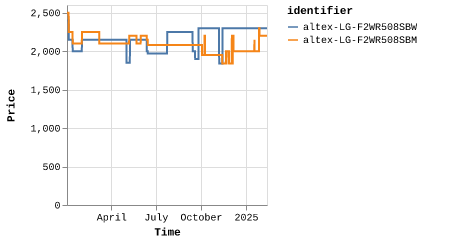
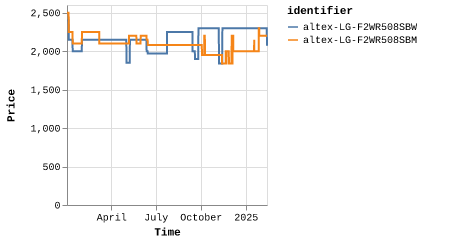
Latest scraping spalat: Thu Feb 13 08:43:49 UTC 2025

diff --git a/scrapes/spalat/altex-LG-F2WR508SBW.md b/scrapes/spalat/altex-LG-F2WR508SBW.md
@@ -1,3 +1,3 @@
-2299
+2069
 
 [Source](https://altex.ro/masina-de-spalat-rufe-frontala-slim-lg-f2wr508sbw-steam-8-kg-1200rpm-clasa-a-alb/cpd/MSFF2WR508SBW/)
